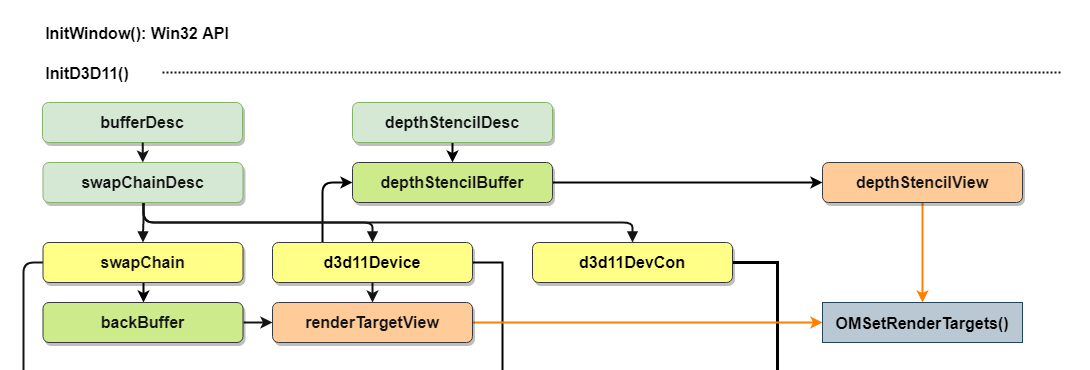
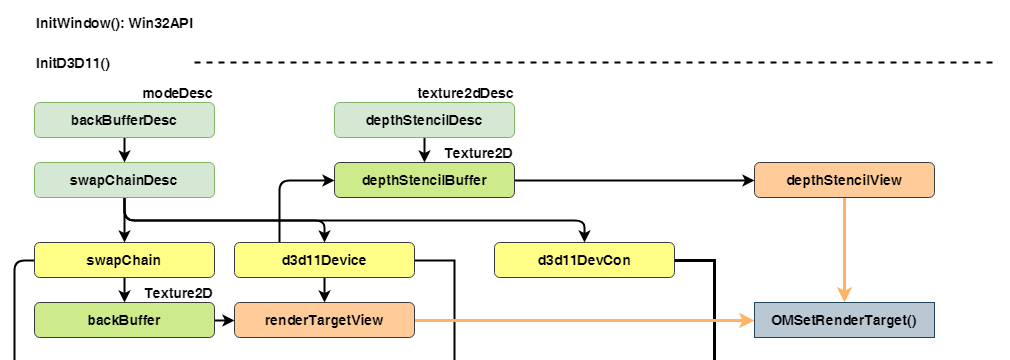
update Directx11-02 and related pictures

diff --git a/source/_posts/RTR-05.md b/source/_posts/RTR-05.md
@@ -1,0 +1,24 @@
+---
+title: RTR - 05. Shading Basics
+date: 2019-07-07 22:06:47
+tags: Real Time Rendering
+categories: Real Time Rendering
+---
+#### Determining the appearance of a rendered object:
+1. choose a shading model
+2. set the values of properties used to control appearance
+
+---
+
+#### factor the shading model into lit and unlit parts
+$ c_{shaded} = f_{unlit}(\vec n, \vec v)+ \displaystyle\sum_{i=1}^n c_{light_i}f_{lit}(\vec l_i, \vec n, \vec v)  ( c_{light}$: light color )  $
+ 
+
+
+
+
+Gooch shading model: 向光暖色调，背光冷色调
+
+---
+
+

diff --git a/source/_posts/Directx11-02.md b/source/_posts/Directx11-02.md
@@ -25,7 +25,8 @@ WinMain()
 
 ## InitScene() 
 - 创建渲染pipeline要用到的各种接口
-- 创建顺序并不是依照渲染顺序的，先搭好框架，后面再实际填入数据
+- 创建顺序并不是依照渲染顺序，先搭好框架，后面再实际填入数据
+- 不需要更新的可以在这里填入数据并set
 ![](/images/Directx11_02_02.png)
 
 ##  DrawScene()
